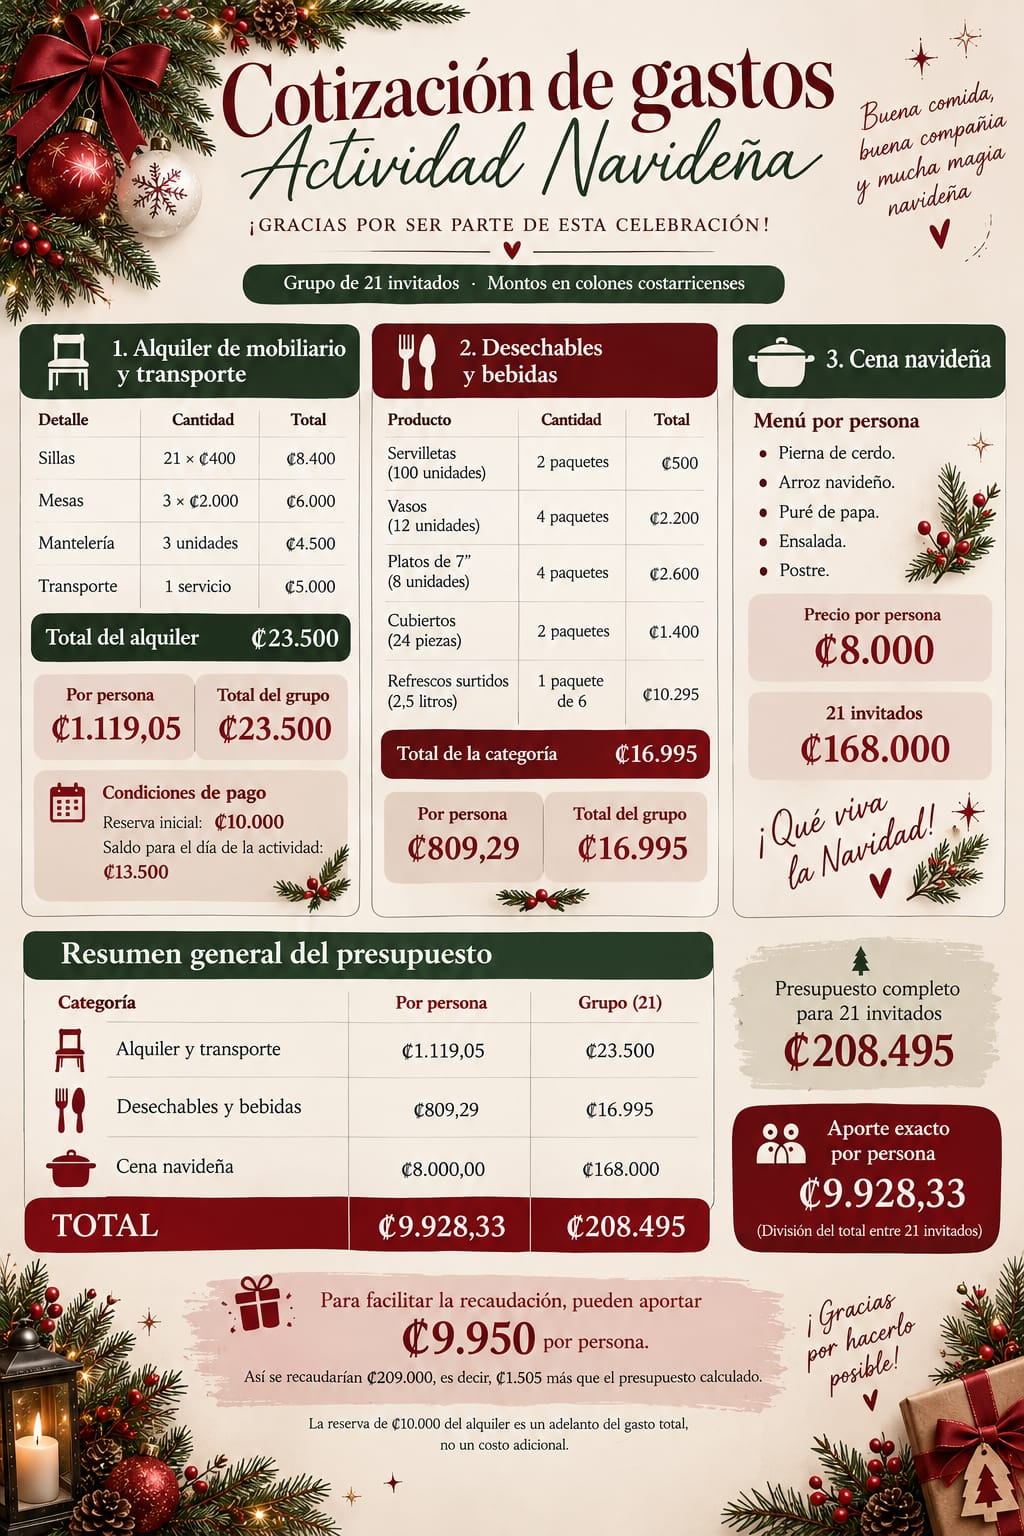
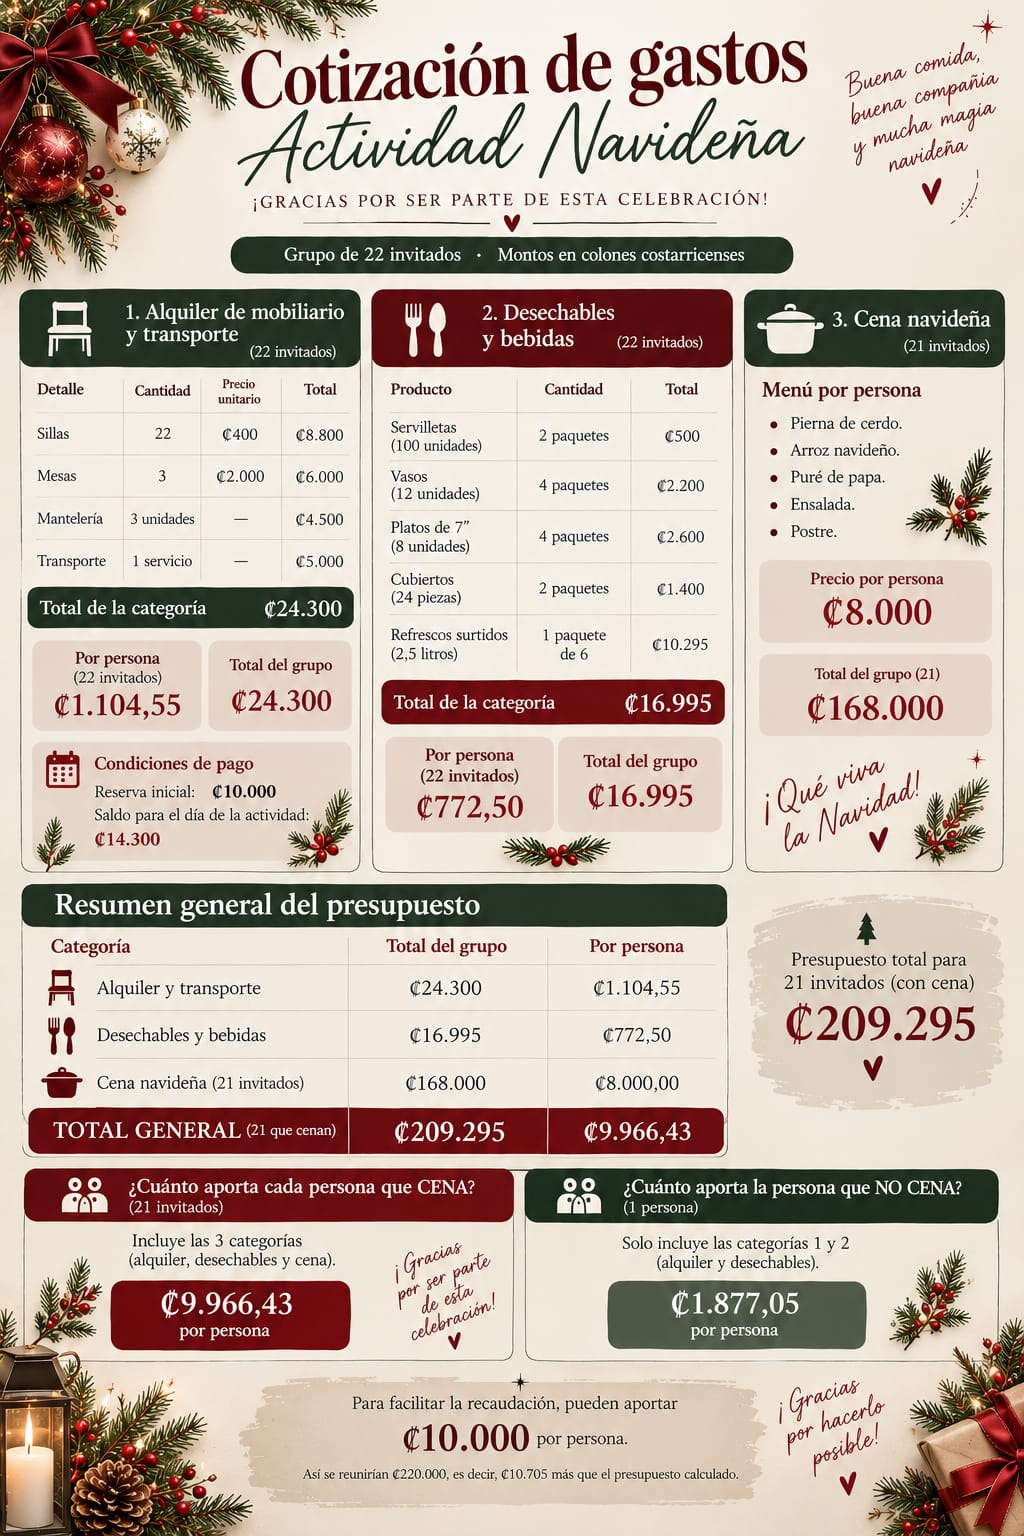
Update desglose y monto a pagar

diff --git a/index.html b/index.html
@@ -158,7 +158,7 @@
           loading="lazy"
         >
         <p class="elf-message">
-          Para esta cena de Navidad, el costo será de <strong>₡9.950 por persona</strong>.
+          Para esta cena de Navidad, el costo será de <strong>₡10.000 por persona</strong>.
           Debe pagarse antes del <strong>15 de noviembre</strong> por SINPE al
           <a class="sinpe" href="tel:+50686567917">8656-7917</a>.
           ¡Paga a tiempo o este elfo podría visitarte!
